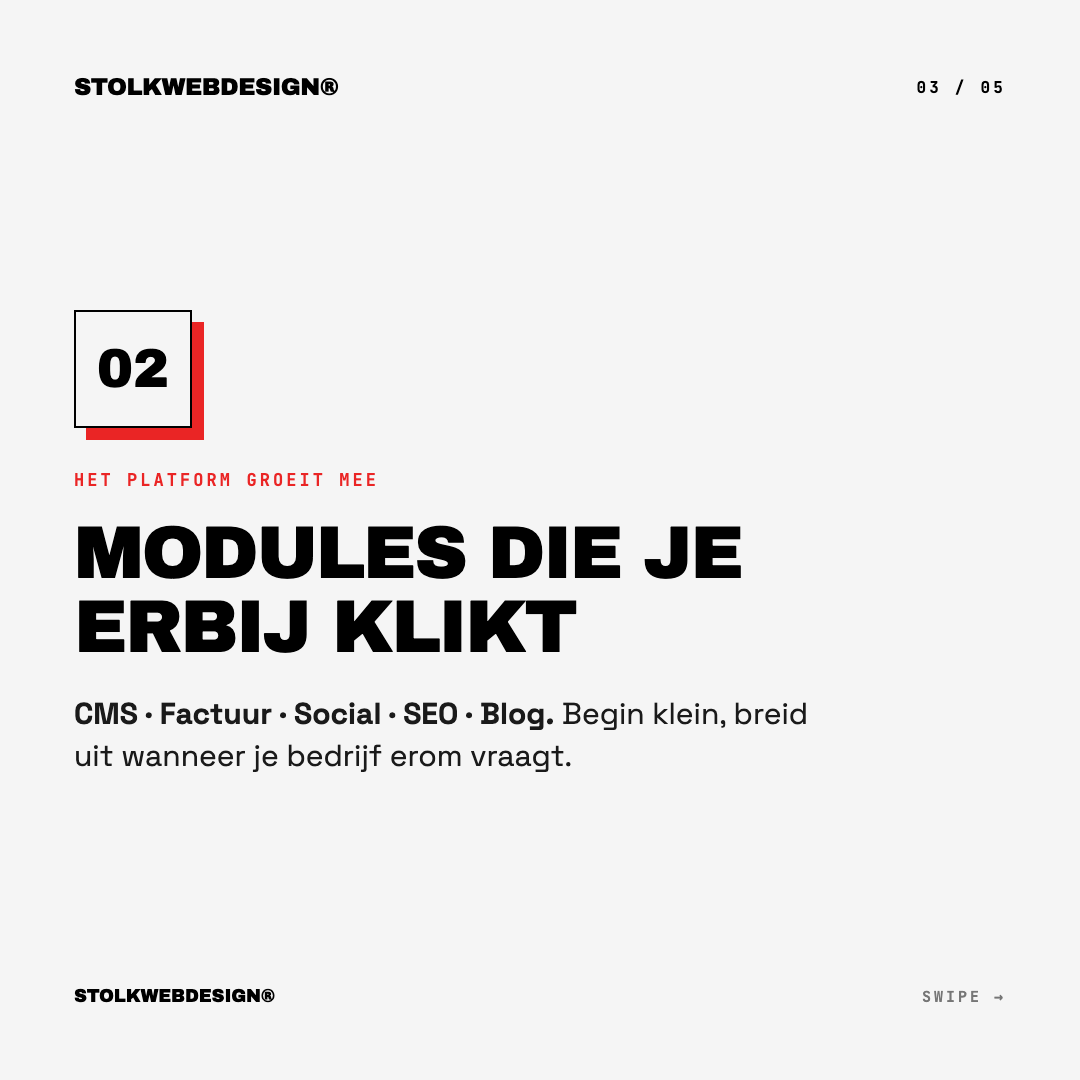
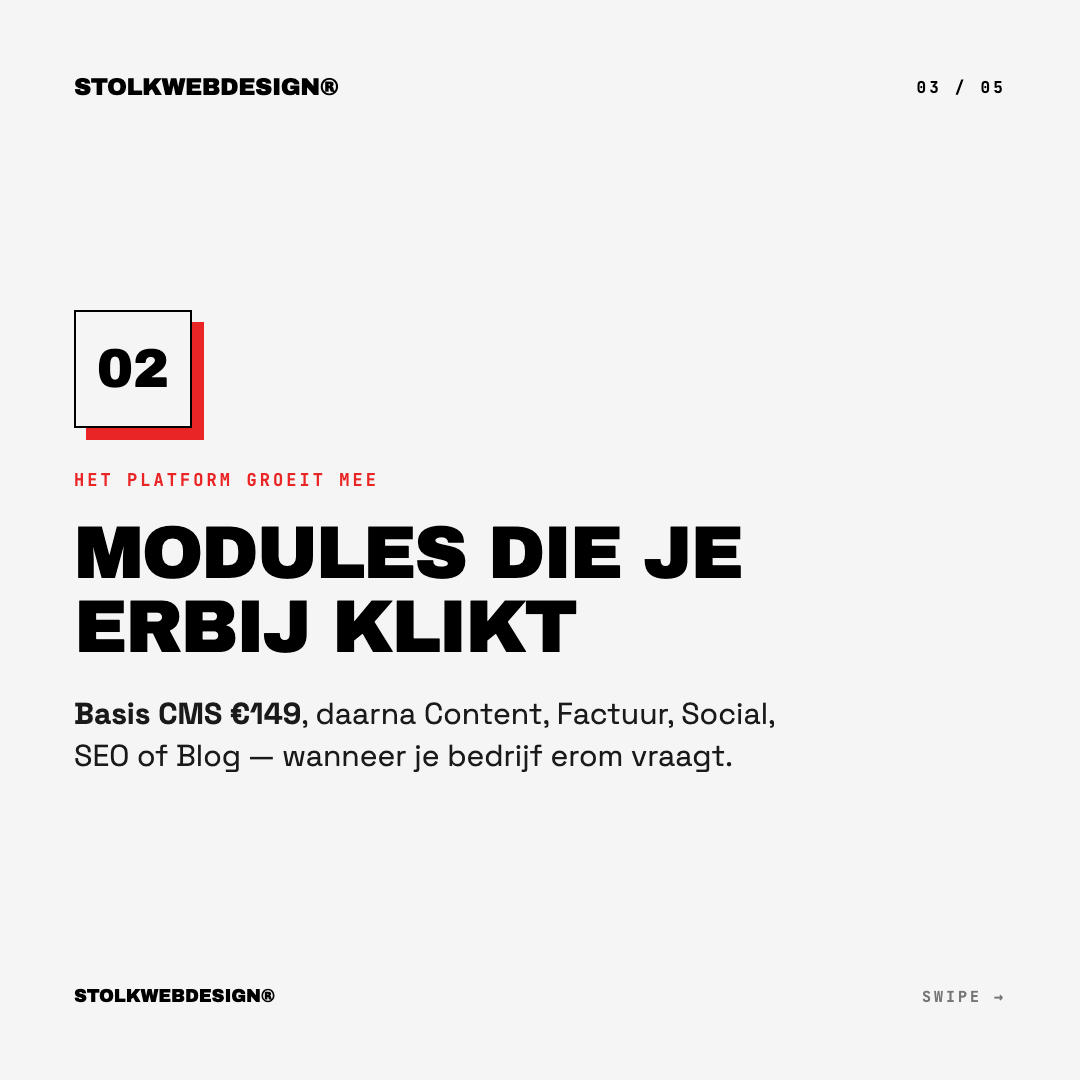
Socials bijgewerkt met nieuwe prijzen + CMS launch-campagne seed
- Post-3 carousel ververst: slide 2 (per pagina, vanaf €950 +€200) + slide 3 (Basis CMS €149 + modules)
- Nieuwe pricing-carousel.html (6 slides, transparante prijzen) → post4-prijzen-1…6
- captions.md: post 3 bijgewerkt + post 4 toegevoegd; render.mjs + README bijgewerkt
- migrations/social_launch_seed.sql: 8 single posts in CMS-campagne launch-2026 (bestsupport08-stijl), toegepast op Supabase

Changed region(s): [[0.0611, 0.6417, 0.7639, 0.7333]]

diff --git a/marketing/launch-socials/captions.md b/marketing/launch-socials/captions.md
@@ -74,8 +74,8 @@ stolkwebdesign.nl — link in bio.
 ### LinkedIn
 Nieuwe site, nieuwe standaard. En dit is wat dat voor jou betekent 👇
 
-1️⃣ Een website laten bouwen die écht opvalt — handcrafted in HTML, CSS & GSAP. Vanaf €950.
-2️⃣ Een platform dat meegroeit: CMS, facturen, social, SEO en blog als losse modules.
+1️⃣ Handcrafted, en je betaalt per pagina — homepage vanaf €950, elke extra pagina €200.
+2️⃣ Een platform dat meegroeit: Basis CMS €149, daarna Content, facturen, social, SEO en blog als losse modules.
 3️⃣ Eén vakman, directe lijn. Geen agency, geen ticketsysteem — je praat met de persoon die het bouwt.
 
 Klaar voor een site die wél bij je past? Plan een gesprek → stolkwebdesign.nl
@@ -85,10 +85,43 @@ Klaar voor een site die wél bij je past? Plan een gesprek → stolkwebdesign.nl
 ### Instagram
 NIEUWE SITE. NIEUWE STANDAARD. 🔴 Swipe →
 
-→ Handcrafted websites vanaf €950
-→ Modules die meegroeien: CMS · Factuur · Social · SEO · Blog
+→ Handcrafted, per pagina — vanaf €950
+→ Basis CMS €149 + modules die meegroeien: Content · Factuur · Social · SEO · Blog
 → Eén vakman, directe lijn. Geen agency.
 
 Plan een gesprek via de link in bio. stolkwebdesign.nl
 
 #webdesign #webdesignamsterdam #ondernemer #mkb #handcrafted #brutalism #websitelatenmaken #gsap
+
+---
+
+## POST 4 — Transparante prijzen (carousel)
+**Beeld:** `output/post4-prijzen-1.png` t/m `output/post4-prijzen-6.png` (6 slides, op volgorde)
+
+### LinkedIn
+Wat kost een website? Bij de meeste bureaus: "dat hangt ervan af." Bij mij: gewoon eerlijk. 👇
+
+Je betaalt per pagina. Een homepage vanaf €950, elke extra pagina €200 — want de eerste pagina bevat het complete ontwerp-systeem, elke volgende bouwt daarop voort.
+
+Liever een vast pakket?
+• Start — 1 pagina — €950
+• Onderneem — tot 4 pagina's — €1.500
+• Groei — tot 7 pagina's + CMS — €2.450
+
+En het platform groeit met je mee: Basis CMS €149, daarna klik je modules erbij (Content, Factuur, Social, SEO, Blog) wanneer je ze nodig hebt. Geen dubbele kosten, geen abonnementsval.
+
+Wat je ziet, is wat je betaalt. Plan een gesprek → stolkwebdesign.nl
+
+#webdesign #ondernemen #amsterdam #mkb #transparant
+
+### Instagram
+WAT KOST EEN SITE? GEWOON EERLIJK. 🔴 Swipe →
+
+→ Je betaalt per pagina: homepage vanaf €950, +€200 per pagina
+→ Of een pakket: Start €950 · Onderneem €1.500 · Groei €2.450
+→ Platform: Basis CMS €149, modules klik je erbij
+→ Geen verborgen kosten, geen abonnementsval
+
+Vaste prijs vooraf. Plan een gesprek via de link in bio. stolkwebdesign.nl
+
+#webdesign #webdesignamsterdam #ondernemer #mkb #transparanteprijzen #geenverrassingen #websitelatenmaken

diff --git a/marketing/launch-socials/README.md b/marketing/launch-socials/README.md
@@ -21,9 +21,12 @@ captions.md  LinkedIn + Instagram captions per post
 |---|------|-----------|----------------|
 | 1 | **Before/After reveal** — "Zelfde naam. Andere studio." | `post1-before-after-ig-1080.png` (IG 1080²) · `post1-before-after-linkedin-1200x627.png` (LI) | beeld + caption |
 | 2 | **Het verhaal** — "Ik verkocht maatwerk — vanaf een template." | `post2-statement-ig-1080.png` (1080²) | tekstpost + 1 beeld |
-| 3 | **Wat er nu kan** — carousel | `post3-carousel-1.png` … `-5.png` (5× 1080²) | carousel/swipe |
+| 3 | **Wat er nu kan** — carousel (per-pagina prijzen + Basis CMS €149) | `post3-carousel-1.png` … `-5.png` (5× 1080²) | carousel/swipe |
+| 4 | **Transparante prijzen** — carousel ("Wat kost een site? Gewoon eerlijk.") | `post4-prijzen-1.png` … `-6.png` (6× 1080²) | carousel/swipe |
 
 Captions staan per post + per platform in [`captions.md`](./captions.md).
+
+> **Prijzen-update (03-06-2026):** post 3 ververst (slide 2 = per pagina vanaf €950, slide 3 = Basis CMS €149 + modules) en post 4 toegevoegd — een aparte carousel volledig over de transparante prijzen (per pagina · 3 pakketten · platform + modules). Template: `templates/pricing-carousel.html`.
 
 ## Opnieuw renderen (alleen als je een template aanpast)
 Playwright is niet gebundeld in dit project:
@@ -58,3 +61,23 @@ node render.mjs            # schrijft alle PNG's opnieuw naar output/
 
 > Geen zin in de API? De PNG's in `output/` zijn gewoon handmatig te plaatsen op LinkedIn + Instagram,
 > met de captions uit `captions.md`.
+
+## In je eigen CMS — Campagnes-tab (zoals Bestsupport08)
+
+Naast deze bestand-gebaseerde carousels staat er een **campagne in je CMS** (`/admin` → tab
+**Campagnes** → "Launch — nieuwe site"). Dat is hetzelfde systeem als bij Bestsupport08:
+**single posts** (kop + sub + thema + captions per platform) die je per post goedkeurt en in
+4 formaten downloadt (IG 1080² · LinkedIn 1200×627 · GBP 1200×900 · Story 1080×1920), live
+gerenderd via `/api/render-social-post`.
+
+> Verschil met de carousels hierboven: de CMS-module maakt **één beeld per post** (geen meerslide-
+> carousels). De rijke carousels blijven dus de losse bestand-versie; de CMS-campagne is de
+> beheersbare single-post-variant met de nieuwe prijzen erin verwerkt.
+
+**Seeden / bijwerken:** [`../../migrations/social_launch_seed.sql`](../../migrations/social_launch_seed.sql)
+vult `launch-2026` met **8 posts** (relaunch + per-pagina prijzen + pakketten + Basis CMS €149 +
+transparant + CTA). Draaien: Supabase Dashboard → SQL Editor → plak → Run. ⚠️ Vervangt de huidige
+3 posts van die campagne.
+
+**Daarna:** `/admin` → Campagnes → per post bewerken/goedkeuren → 4 formaten downloaden → posten
+met de bijbehorende caption (staat per platform op de post).